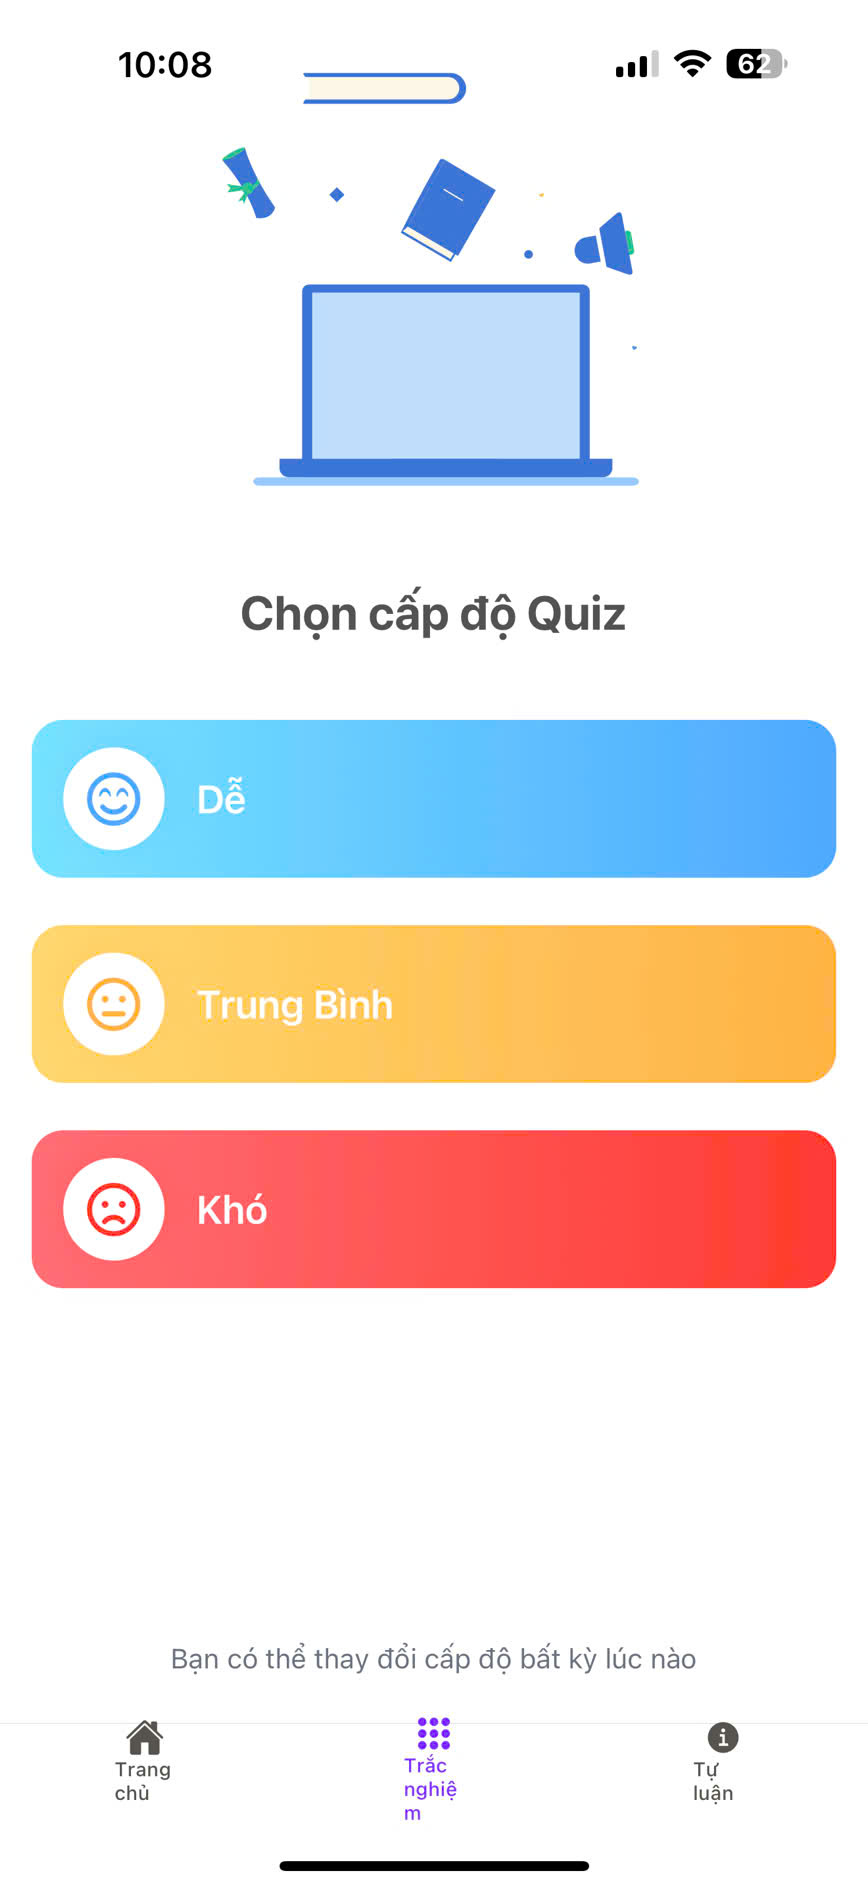
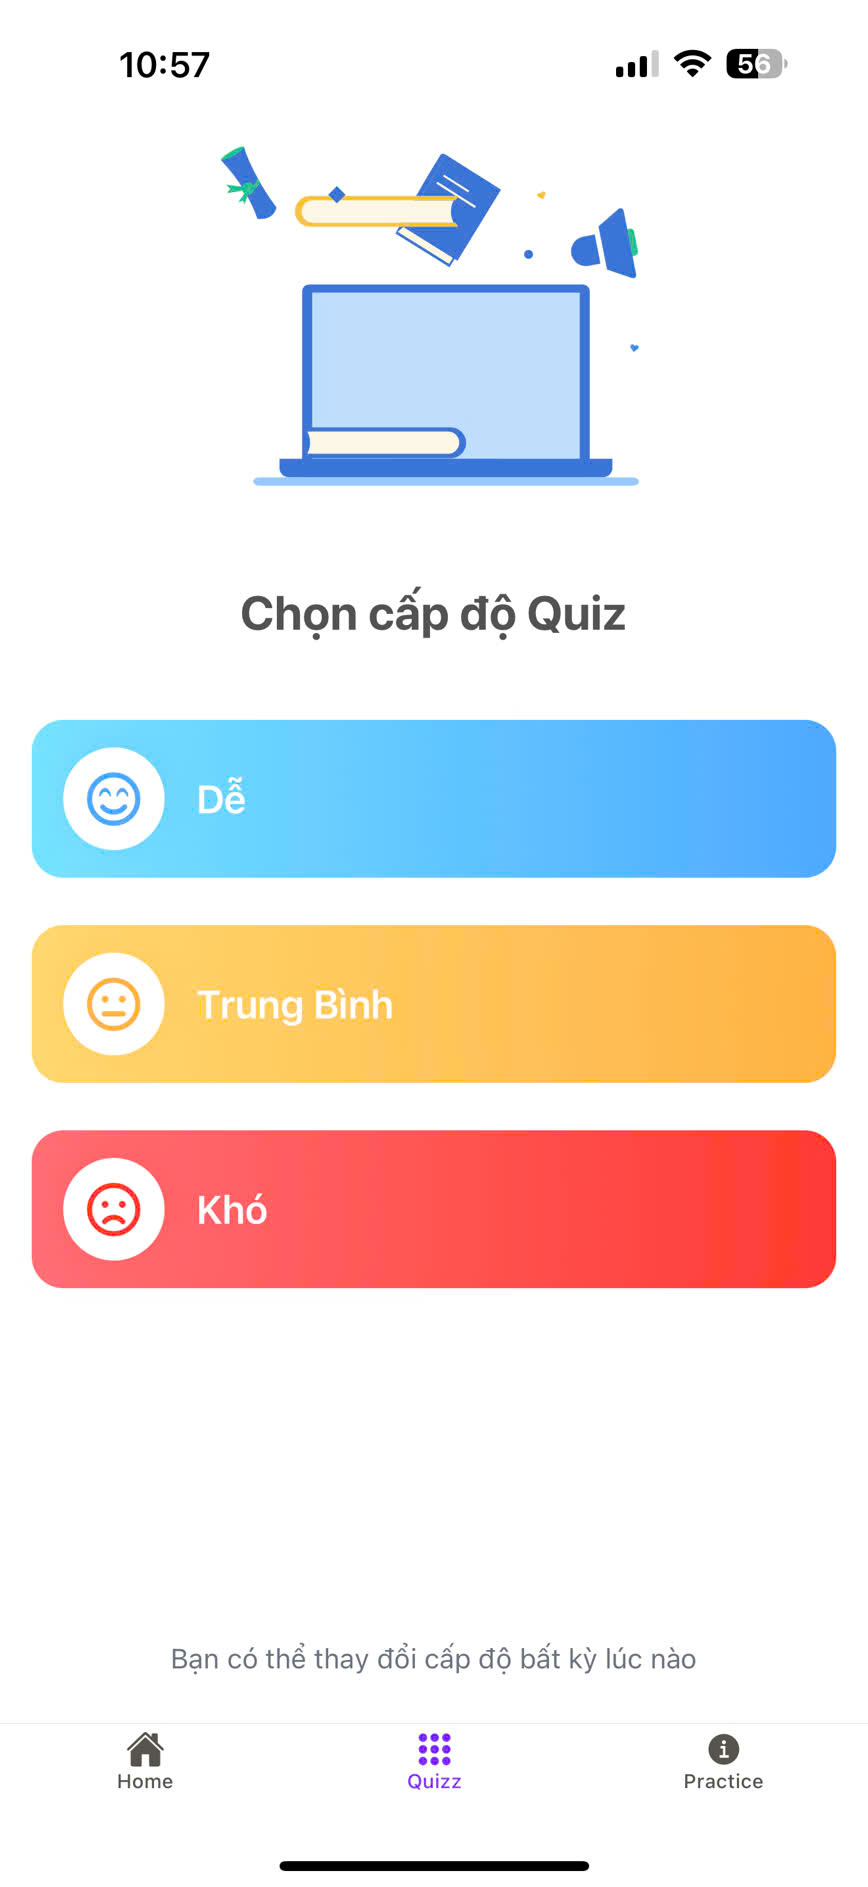
fix title

diff --git a/src/navigations/TabNavigation.tsx b/src/navigations/TabNavigation.tsx
@@ -20,16 +20,20 @@ interface ITabIcon {
 const TabIcon = ({ focused, name, title }: ITabIcon) => {
   const colors = UseTokenColor();
   return (
-    <VStack alignItems={"center"}>
+    <VStack alignItems={"center"}  justifyContent={"center"}>
       <Ionicons
         name={name}
         size={20}
         color={focused ? colors.primary600 : colors.warmGray600}
+        
       />
       <Text
         fontSize={10}
         fontWeight={"$medium"}
         color={focused ? colors.primary600 : colors.warmGray600}
+        textAlign="center"
+        width={50}
+        
       >
         {title}
       </Text>
@@ -49,21 +53,21 @@ export const TabData: ITabData[] = [
   {
     id: 1,
     tabName: "Home",
-    title: "Trang chủ",
+    title: "Home",
     iconName: "home",
     component: Home,
   },
   {
     id: 2,
     tabName: "Quizz",
-    title: "Trắc nghiệm",
+    title: "Quizz",
     iconName: "apps",
     component: Quizz,
   },
   {
     id: 3,
     tabName: "Practice",
-    title: "Tự luận",
+    title: "Practice",
     iconName: "information-circle-sharp",
     component: Practice,
   },
